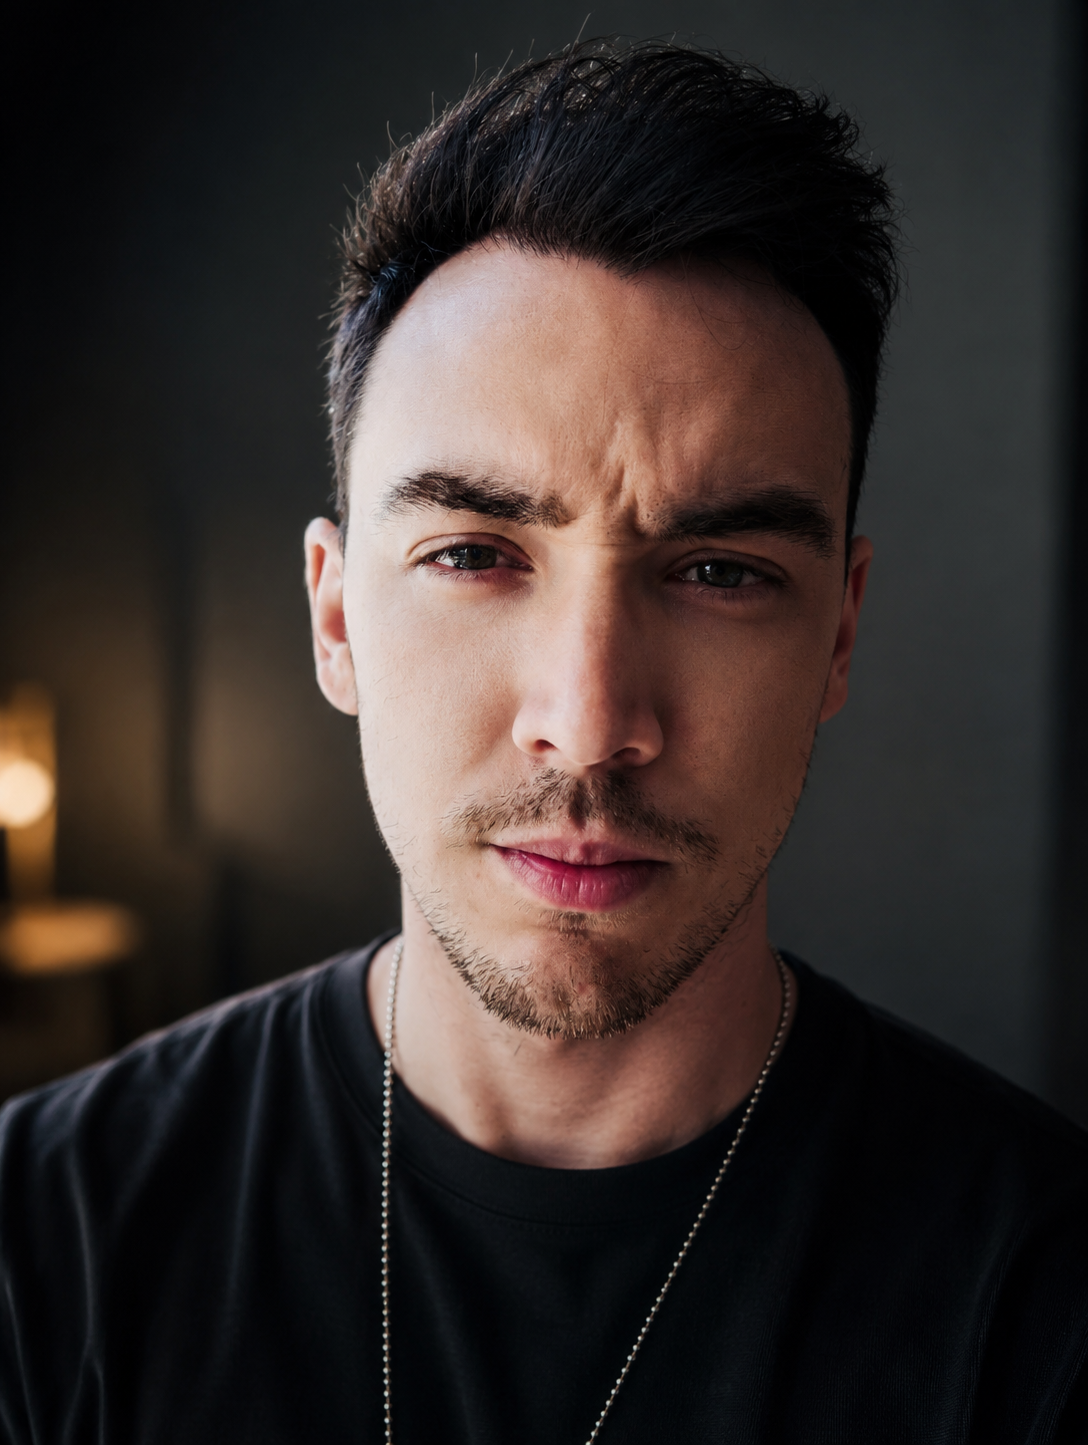
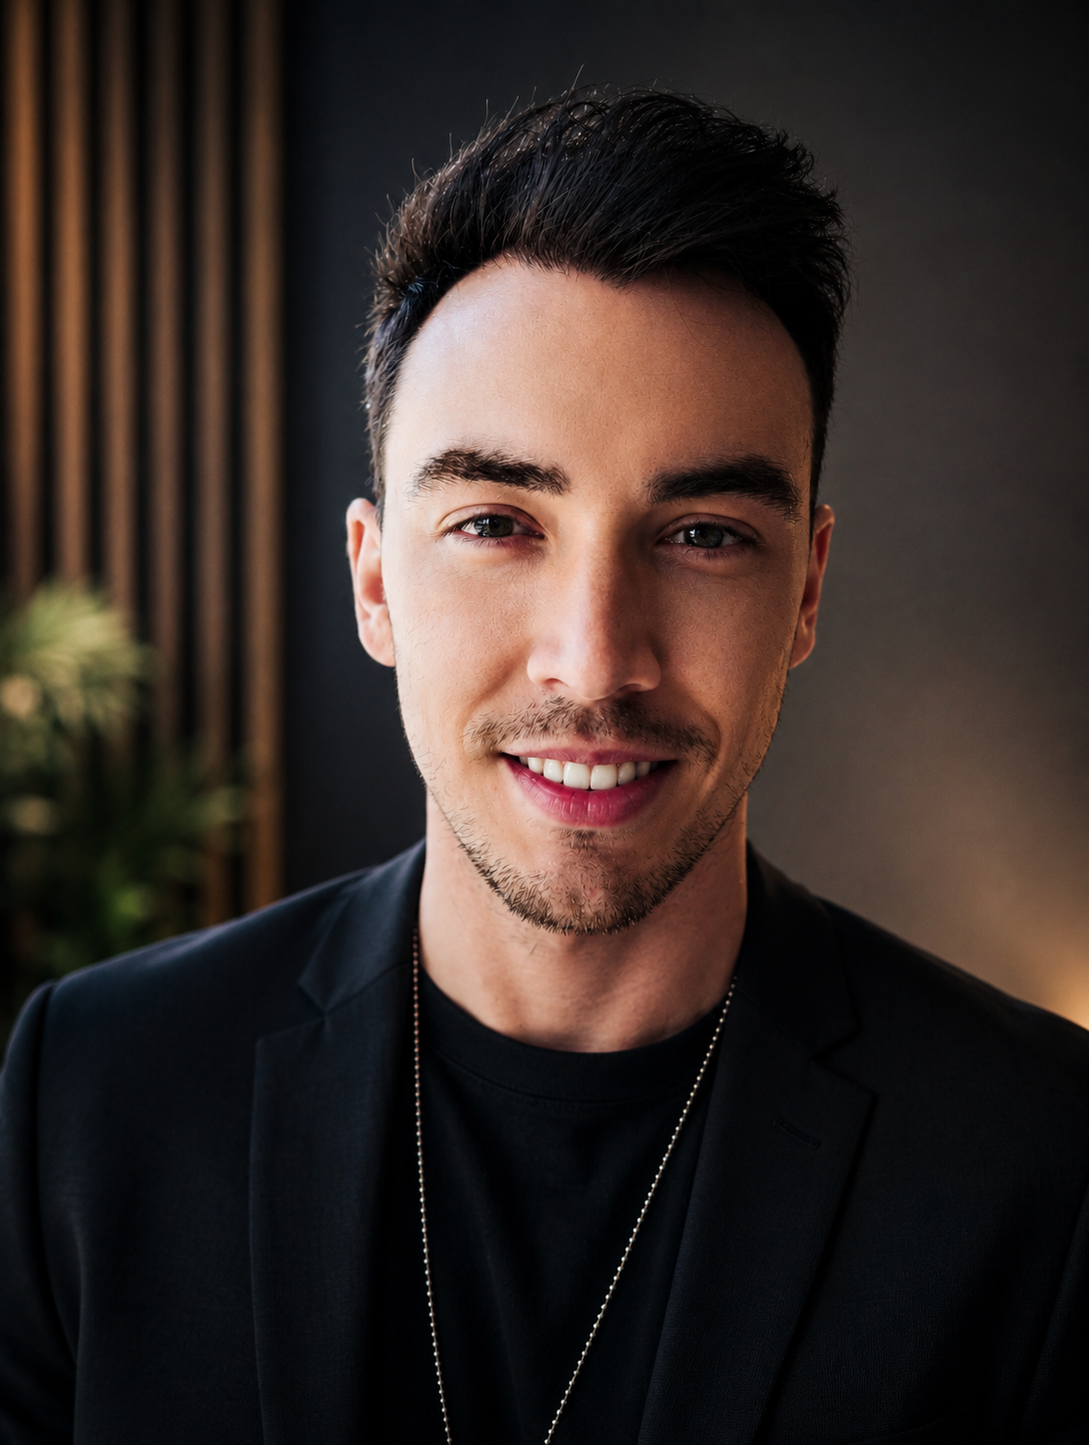
Actualiza foto de Alejandro en Sobre mi y contexto del proyecto

diff --git a/CONTEXTO.md b/CONTEXTO.md
@@ -130,5 +130,42 @@ Para construir la **web personal de servicios**, elegir tecnología:
 
 ---
 
-## ✅ Próximo paso (al retomar)
-Empezar por el **Paso 1: construir la web personal de servicios**. Decidir antes la tecnología (recomendado: HTML/CSS/JS puro) y arrancar creando el proyecto.
+## 📌 ESTADO ACTUAL (actualizado 2026-07-03)
+
+### 🏷️ Marca definida
+- Nombre: **<Kodix/>** (azul `#2f6bff` + negro). Eslogan: *"ideas que construyen futuro"*.
+- Fundador: Alejandro. Logos en `img/` (`logo-kodix.png`, `logo-modelos.png`).
+- **Contacto real:** WhatsApp `34684085186` · Email `[email redacted]`.
+
+### ✅ Lo que YA está hecho (Pasos 1 y 2 = técnicos, COMPLETOS)
+- **Web personal Kodix** construida con **HTML/CSS/JS puro** (decisión tomada).
+  - Archivos: `index.html`, `css/styles.css`, `js/main.js`. 7 secciones, responsive, branding aplicado.
+  - Foto real en "Sobre mí" (`img/alejandro.png`).
+- **3 webs demo** en el portfolio, cada una con un estilo distinto a propósito (demuestra versatilidad):
+  - 🍷 `demos/restaurante/` — "La Parra". Oscuro + dorado, Playfair Display.
+  - 💇 `demos/peluqueria/` — "Estilo". Claro nude + rose gold, Cormorant Garamond.
+  - 🔧 `demos/fontaneria/` — "Fontanería Rápida". Landing de conversión azul + naranja, Manrope, botón WhatsApp flotante.
+  - Las 3 están enlazadas desde el portfolio de la web principal.
+- **Git listo:** repo inicializado en `Mi porfolio` con commit inicial hecho y remoto configurado a `https://github.com/Kodix-developer/Mi-porfolio.git`.
+- (Aparte) Se limpió un repo git mal ubicado que había en `C:\Users\alex_` (rastreaba todo el perfil de Windows por error). Eliminado sin afectar archivos.
+
+### ⚠️ Bloqueo actual
+- La cuenta de GitHub **`Kodix-developer` está "flagged"** (marcada por antifraude): da 404 pública/API aunque el dueño la ve logueado.
+- Ya se activó la **2FA** (requisito para contactar soporte). Pendiente: esperar a que se desmarque sola o abrir ticket en `support.github.com/contact`.
+- **El `git push` está en pausa** hasta que la cuenta se active. Cuando lo esté → un solo `git push -u origin main` y subido.
+
+---
+
+## 🎯 LO QUE QUEDA POR HACER (en orden de prioridad)
+
+1. **Desbloquear la cuenta GitHub Kodix-developer** → esperar / abrir ticket de soporte (ya con 2FA activada). *[bloquea el resto de "publicar"]*
+2. **Hacer el `git push`** del portfolio en cuanto la cuenta esté activa (todo listo en local).
+3. **(Opcional) Limpiar el repo** antes o después de subir: quitar de la raíz los PNG duplicados `logo modelos.png`, `logo png.png`, `Mi foto.png` (ya están copiados con nombre limpio en `img/`).
+4. **Publicar en Netlify o Vercel** (gratis, ideal para webs estáticas). Da URL pública tipo `kodix.netlify.app`.
+5. **Comprar el dominio** (`kodix.es`/`.com`, ~10€/año) y apuntarlo a Netlify/Vercel.
+6. **Conectar los formularios** de contacto a un servicio real (Netlify Forms es gratis y automático) para recibir los mensajes por email.
+7. **Google Search Console** → dar de alta la web para que Google la indexe.
+8. **Presencia online** → perfil Instagram/LinkedIn de Kodix con la web enlazada; compartir con círculo cercano.
+9. **A partir de aquí, pasos comerciales** (ver hoja de ruta arriba): kit comercial/precios, primer cliente "fácil", y solo después lo legal (autónomo/gestoría).
+
+> Recordatorio: pasos 1-6 son técnicos (Claude Code ayuda al 100%). Del 7 en adelante entra lo comercial (lo ejecuta Alejandro, con guía).